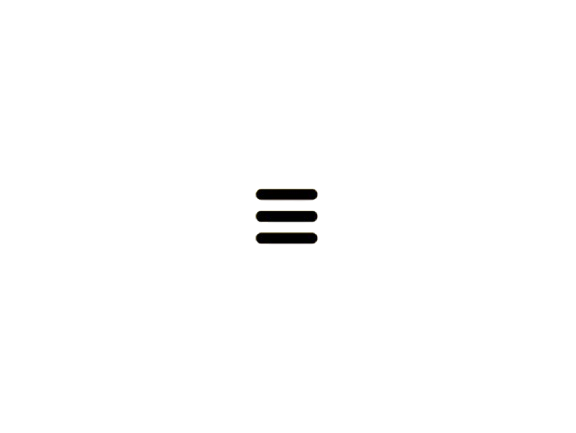
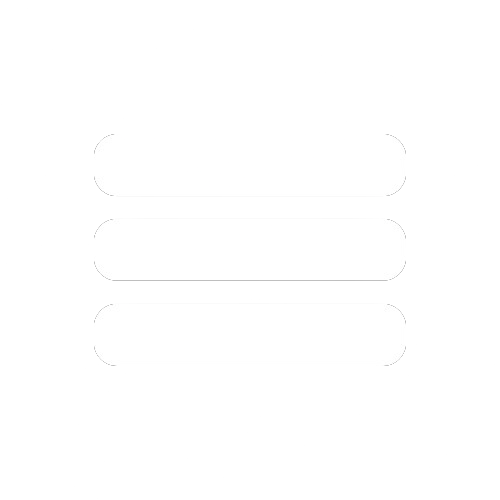
sigma changes

Changed region(s): [[0.42, 0.4203, 0.57, 0.5704]]

diff --git a/index.html b/index.html
@@ -12,7 +12,7 @@
     <header>
         <a href="index.html" class="brand"><img src="g5logo.png" alt="g5logo"></a>
         <div class="menu-btn">
-
+            
         </div>
         <div class="navigation">
             <div class="navigation-items">
@@ -29,17 +29,17 @@
         <video class="video-slide" src="valorant4.mp4" autoplay muted loop></video>
         <div class="content active">
             <h1><br><span>"They talk about my one taps"</span></h1>
-            <p>Lorem ipsum dolor sit amet consectetur adipisicing elit. Velit, minima reprehenderit, itaque saepe, voluptatibus impedit totam architecto quam commodi maiores sequi sunt eveniet! Laudantium nostrum culpa sint eligendi qui expedita!</p>
+            <p>One Tap for Water Security, Education, and Healthcare.</p>
             <a href="https://www.facebook.com/profile.php?id=100074372686869" >Visit our Channel →</a>
         </div>
         <div class="content">
             <h1><br><span>"Sandali lang yung TP"</span></h1>
-            <p>Lorem ipsum dolor sit amet consectetur adipisicing elit. Velit, minima reprehenderit, itaque saepe, voluptatibus impedit totam architecto quam commodi maiores sequi sunt eveniet! Laudantium nostrum culpa sint eligendi qui expedita!</p>
+            <p>Sandali, watch our videos for a cause.</p>
             <a href="https://www.facebook.com/profile.php?id=100074372686869" >Visit our Channel →</a>
         </div>
         <div class="content">
             <h1><br><span>"Bat pa nag-ulti Clove"</span></h1>
-            <p>Lorem ipsum dolor sit amet consectetur adipisicing elit. Velit, minima reprehenderit, itaque saepe, voluptatibus impedit totam architecto quam commodi maiores sequi sunt eveniet! Laudantium nostrum culpa sint eligendi qui expedita!</p>
+            <p>Clove wasted his ult here, let's not waste the lives of the people living in Sitio Bebe</p>
             <a href="https://www.facebook.com/profile.php?id=100074372686869" >Visit our Channel →</a>
         </div>
         <div class="content">

diff --git a/style.css b/style.css
@@ -117,6 +117,7 @@ section{
 
 .home .content p{
     margin-bottom: 30px;
+    font-size: 1.5em;
 }
 
 .home .content a{
@@ -261,7 +262,7 @@ section{
 
     .menu-btn{
         background: url(menubtn.png)no-repeat;
-        background-size: 250px;
+        background-size: 60px;
         background-position: center;
         width: 40px;
         height: 40px;
